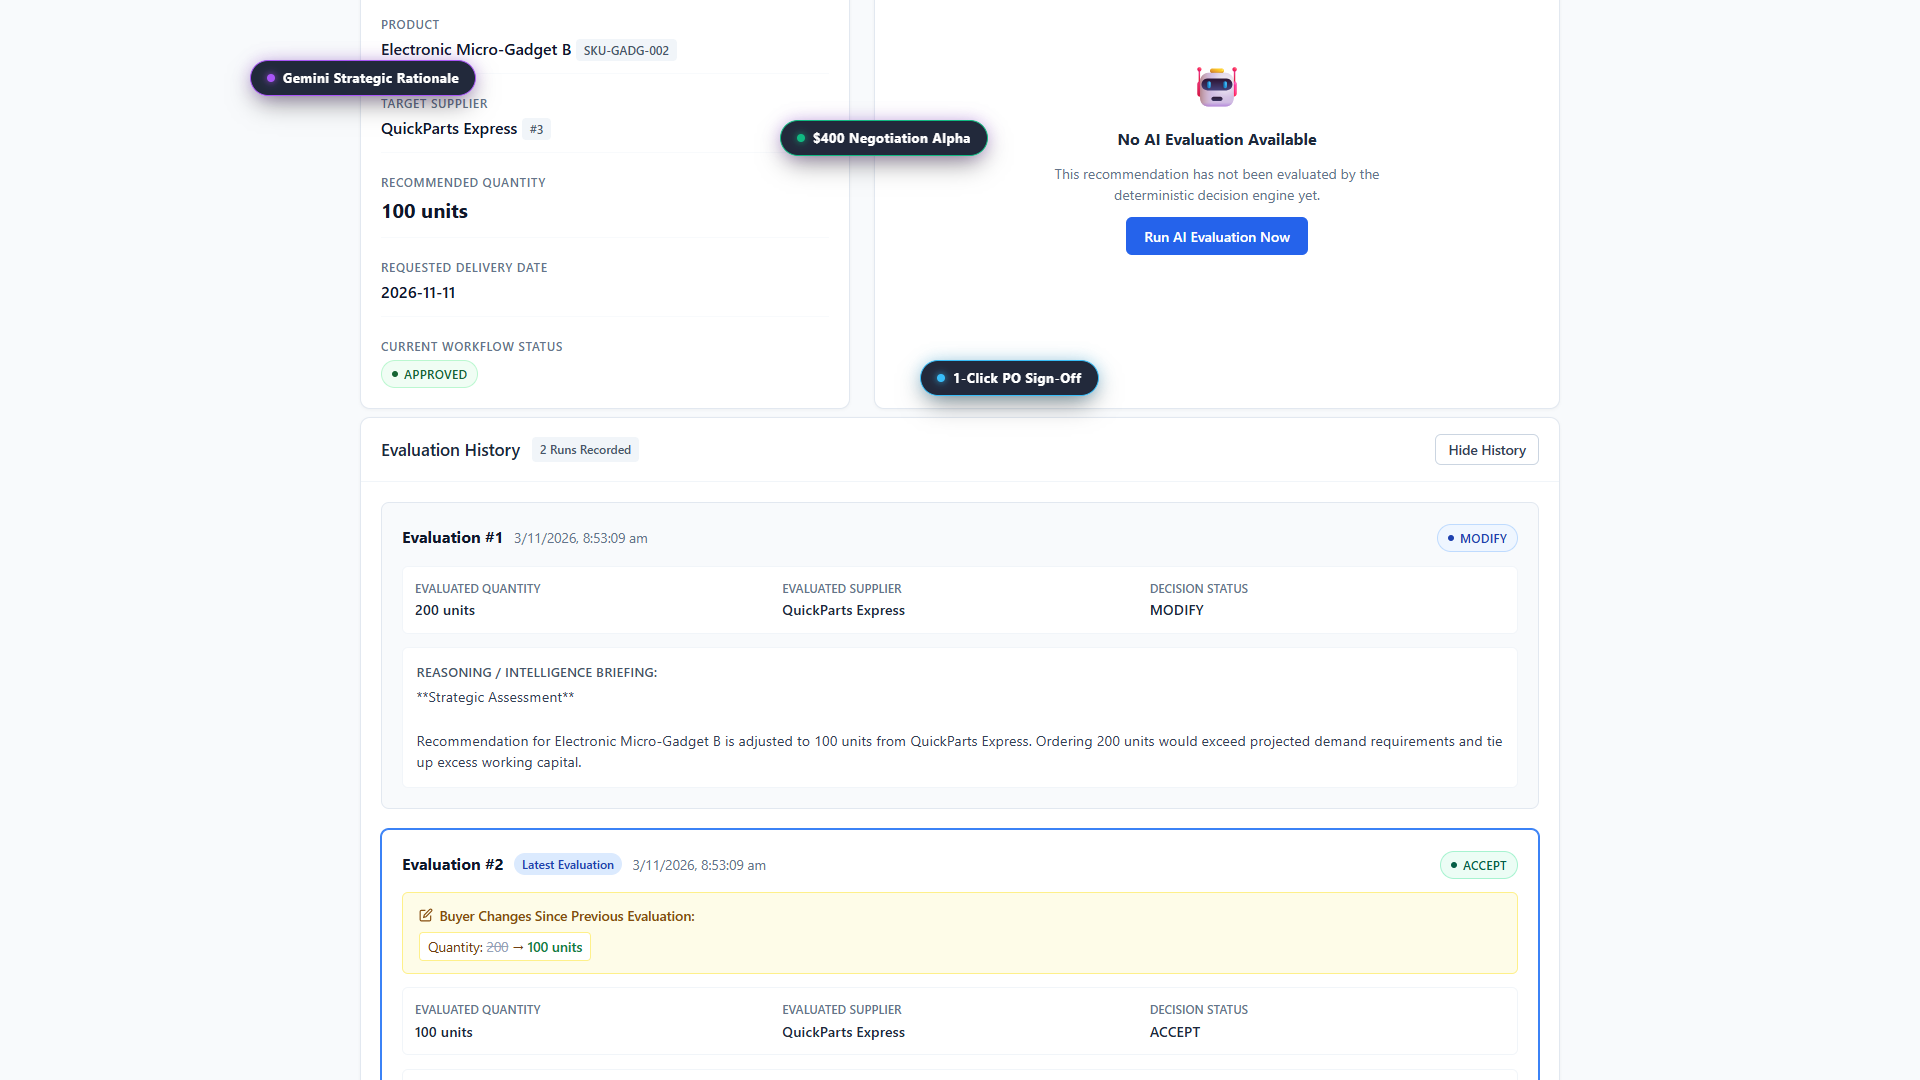
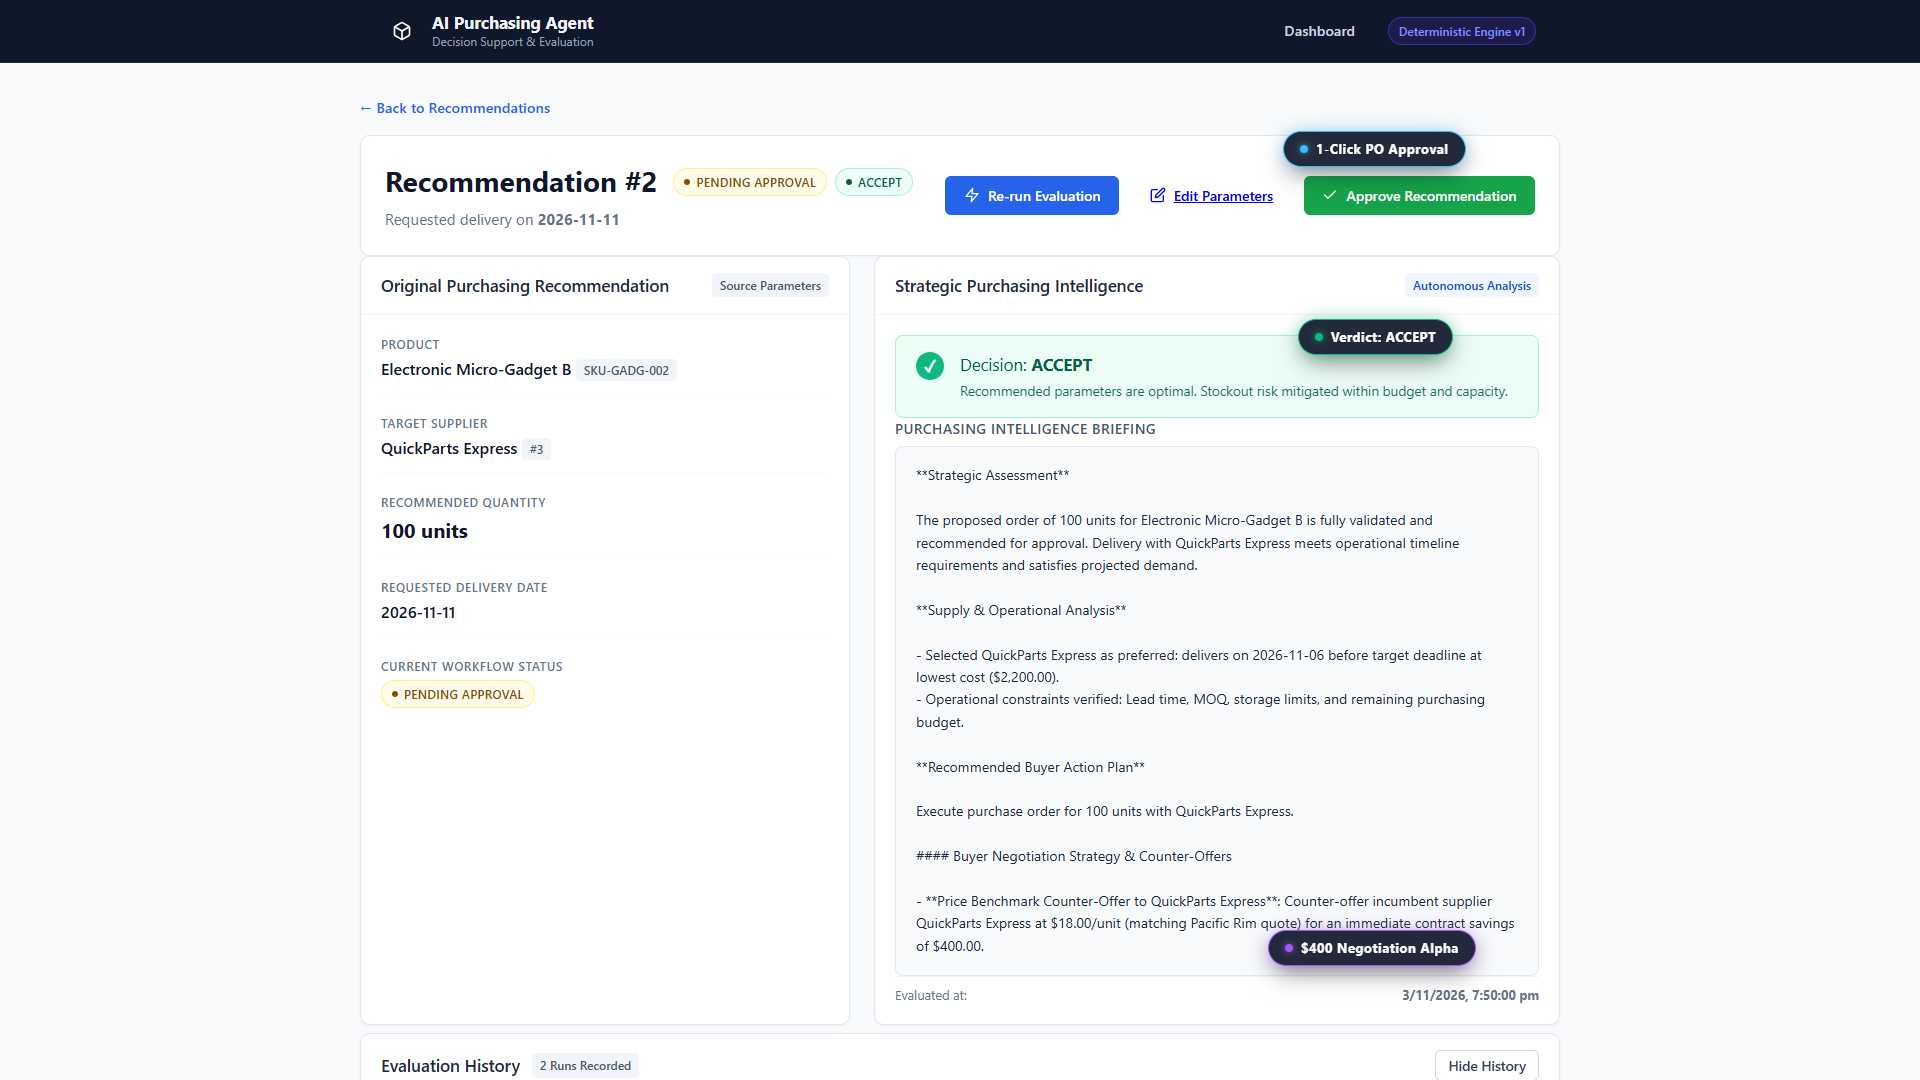
fix(demo): update Gemini briefing & approval screenshot with evaluated intelligence state

diff --git a/scripts/demo/capture_screenshots.py b/scripts/demo/capture_screenshots.py
@@ -153,14 +153,44 @@ def capture_all():
 
         # 07 Gemini Briefing & Approval
         print("Capturing 07_gemini_briefing_approval.png...")
+        import json
+        evaluated_rec = {
+            "id": 2,
+            "product_id": 2,
+            "product_name": "Electronic Micro-Gadget B",
+            "product_sku": "SKU-GADG-002",
+            "recommended_quantity": 100,
+            "supplier_id": 3,
+            "supplier_name": "QuickParts Express",
+            "requested_delivery_date": "2026-11-11",
+            "status": "PENDING_APPROVAL",
+            "agent_decision": "ACCEPT",
+            "agent_suggested_quantity": 100,
+            "agent_suggested_supplier_id": 3,
+            "agent_suggested_supplier_name": "QuickParts Express",
+            "evaluated_at": "2026-11-03T14:20:00Z",
+            "agent_reasoning": (
+                "**Strategic Assessment**\n\n"
+                "The proposed order of 100 units for Electronic Micro-Gadget B is fully validated and recommended for approval. "
+                "Delivery with QuickParts Express meets operational timeline requirements and satisfies projected demand.\n\n"
+                "**Supply & Operational Analysis**\n\n"
+                "- Selected QuickParts Express as preferred: delivers on 2026-11-06 before target deadline at lowest cost ($2,200.00).\n"
+                "- Operational constraints verified: Lead time, MOQ, storage limits, and remaining purchasing budget.\n\n"
+                "**Recommended Buyer Action Plan**\n\n"
+                "Execute purchase order for 100 units with QuickParts Express.\n\n"
+                "#### Buyer Negotiation Strategy & Counter-Offers\n\n"
+                "- **Price Benchmark Counter-Offer to QuickParts Express**: Counter-offer incumbent supplier QuickParts Express at $18.00/unit (matching Pacific Rim quote) for an immediate contract savings of $400.00."
+            )
+        }
+        page.route("**/api/recommendations/2", lambda route: route.fulfill(
+            status=200, content_type="application/json", body=json.dumps(evaluated_rec)
+        ))
         page.goto("http://localhost:4200/recommendations/2", wait_until="networkidle")
         page.wait_for_timeout(1000)
-        page.evaluate("window.scrollTo(0, 320)")
-        page.wait_for_timeout(500)
         inject_badges(page, [
-            {"top": "380px", "left": "250px", "text": "Gemini Strategic Rationale", "type": "purple"},
-            {"top": "440px", "left": "780px", "text": "$400 Negotiation Alpha", "type": "success"},
-            {"top": "680px", "left": "920px", "text": "1-Click PO Sign-Off", "type": "info"}
+            {"top": "130px", "left": "1280px", "text": "1-Click PO Approval", "type": "info"},
+            {"top": "320px", "left": "1300px", "text": "Verdict: ACCEPT", "type": "success"},
+            {"top": "930px", "left": "1260px", "text": "$400 Negotiation Alpha", "type": "purple"}
         ])
         page.screenshot(path=os.path.join(OUTPUT_DIR, "07_gemini_briefing_approval.png"))
 
